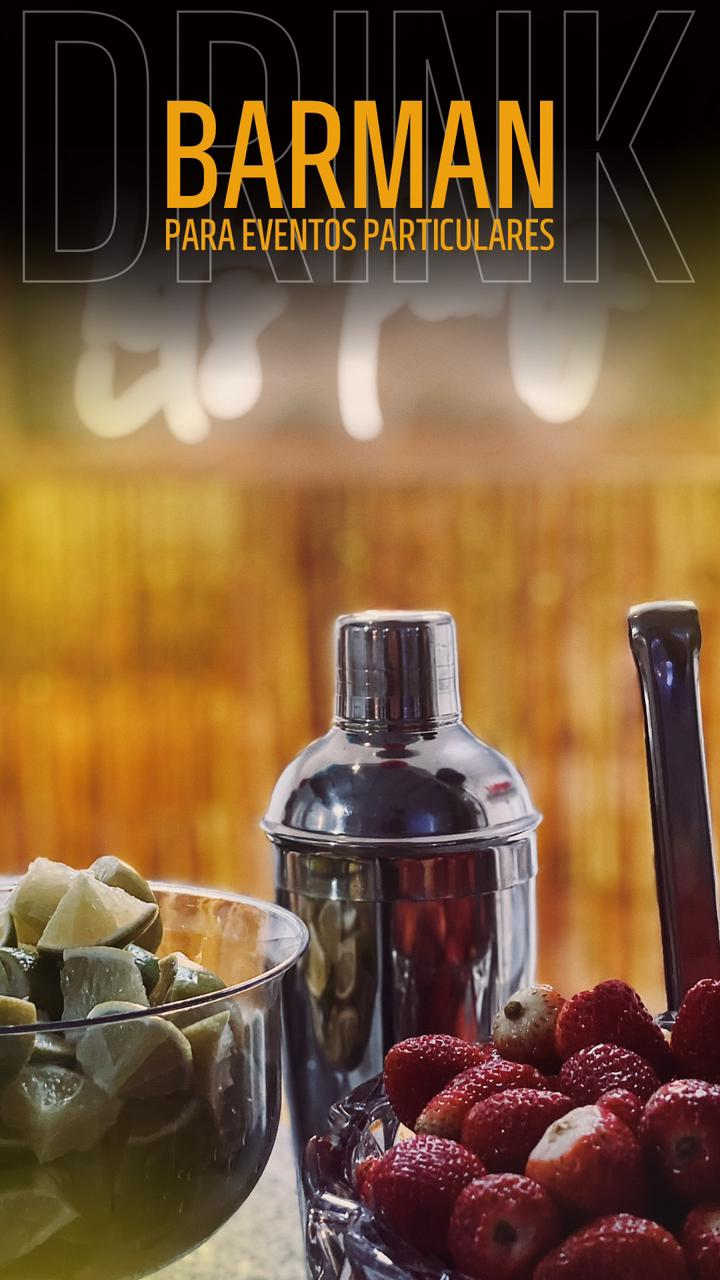
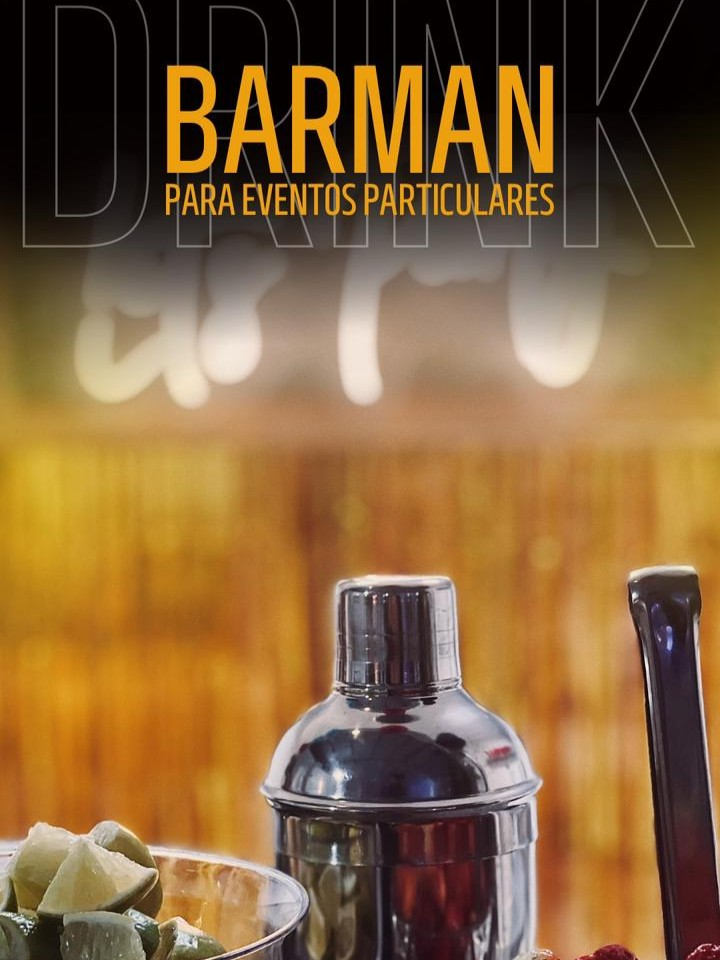
teste de ajuste de margin na tela dos carrosseis e geração do style-geral

diff --git a/style/style-drinks.css b/style/style-drinks.css
@@ -144,27 +144,18 @@ html {
   }
   
   section p {
-    margin: 0 15px 0 15px;
+    margin: 0 35px 0 35px;
   }
 
   img {
     width: 300px
   }
 
-  #img-sobre-nos {
-    width: 300px;
-    max-width: 100%;
-    height: auto;
-    margin: 80px;
-    border-radius: 10px;
-    border: 2px solid var(--cor-borda);
-  }
-
   #drinks {
     width: 300px;
     max-width: 100%;
     height: auto;
-    margin: 15px;
+    margin: 75px 0 20px 0;
     border-radius: 10px;
     border: 2px solid var(--cor-borda);
   }
@@ -173,7 +164,7 @@ html {
     width: 300px;
     max-width: 100%;
     height: auto;
-    margin: 60px 0 0 0;
+    margin: 25px 0 20px 0;
     border-radius: 10px;
     border: 2px solid var(--cor-borda);
   }